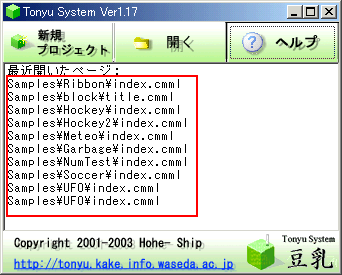
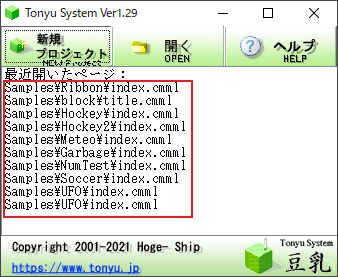
[wiki]リリース履歴修正、画像をWin10で撮り直し、グローバル変数一覧追加

diff --git a/md/dl-history.md b/md/dl-history.md
@@ -8,29 +8,24 @@
 &emsp;2021/05/01
 
 - フレームレート制御の実装を変更
-  - フレームレート制御を、無限ループ＋Sleepから、マルチメディアタイマーに変更した
-  - timeBeginPeriod(1)（WindowsAPI）でタイマー精度を向上
+  - ビジーループ＋Sleepから、マルチメディアタイマーに変更
 - CPU使用率を軽減
-- フレームレート(FPS)がより正確になった
 - ゲーム画面のカクツキ（スタッタリング）軽減（DWM有効時）
-  - 擬似的なVSyncを実装
-    - ディスプレイの走査線を取得し、処理タイミングを微調整することでスタッタリングを軽減する
 - カクツキ対策用のメソッド追加
   - [$System.setVSync](./rf-system-setvsync.md)
   - [$System.setAdjustScanLine](rf-system-setadjustscanline.md)
-- $System.setFrameRateでFPSを小数単位でも指定できるようになった
+- $System.setFrameRateでFPSを小数単位でも指定できるようにしました
   - $System.setFrameRateのFPS制限を廃止
 - グローバル変数追加
   - $_fps, $_rps追加（FPSとRPSが実数で取得できる）
-  - ディスプレイの縦横ピクセル数、$displayWidth, $displayHeight
-  - Windowsのバージョンを取得できるよう変数を追加した
-    - [$osPlatformId、$osMajorVer、$osMinorVer](./rf-getosversion.md)
-    - WindowsAPIのGetVersionExと同じ値
-- ランタイムではF3キーで一時停止禁止
+  - ディスプレイの縦横ピクセル数、$displayWidth, $displayHeightを追加
+  - Windowsのバージョン値、[$osPlatformId、$osMajorVer、$osMinorVer](./rf-getosversion.md)を追加
 - 効果音のDelayをOS毎に調整
   - XP以前は1350、Vista, 7は2400、8, 8.1は2500、10は3000
-- ウィンドウの見た目が変わった
-- ウィンドウ移動中などでもゲームが止まらなくなった
+- ウィンドウの見た目が変化しました
+- ランタイムではF3キーで一時停止禁止
+- ウィンドウ移動中などでもゲームが止まらなくなりました
+- フレームレート(FPS)がより正確になりました
 - パフォーマンスウィンドウの変更
   - FPS表示変更、RPS（Run Per Second）（実行速度）の表示追加、SleepTimeの表示
 - 非アクティブ時ページロードするとキーが効いてしまうのを防止
@@ -47,21 +42,17 @@
 &emsp;2021/04/04
 
 - switch文の実装
-  - switch、case、defaultは変数名等には使えなくなる
+  - switch、case、defaultは変数名等には使えなくなります
 - JoyStickの不具合を修正
   - JoyStickを刺して抜いた後、Tonyu1を再起動するとJoyStick取得が重くなる不具合を修正
     - [BBS No.12342](http://www.tonyu.jp/joyful/joyful.cgi?mode=res&no=12342) に該当
   - JoyStick１つ接続の時、２つ目のJoyStickのボタンも押下しているように取得される不具合を修正
-  - １フレーム内にJoyStick取得を複数回行うと、その分getButton()が増えてしまうのを修正
-    - getkey()と同じ挙動にした（getButton()等の取得値は１フレームごとに+1）
+  - getkey()と同じ挙動にしました（getButton()等の取得値は１フレームごとに+1）
 - ウィンドウが非アクティブ時の挙動修正
-  - FPSが下がりにくいように修正（スリープ時間を100ms→1msに変更）
-    - または、$Optionsのsleep_time値やパフォーマンスウィンドウのCPU負担の設定時間分スリープする
-  - タスクバーから最小化時、非アクティブと検知されない不具合を修正（キー入力・CPU使用率）
 - 効果音のDelayを3000に変更（Vista以降）
 - ファイルを開く・保存するダイアログを新しいタイプに変更（Vista以降）
 - エディタ編集時、ゲーム側でキーが反応しないように修正
-- エディタの30000バイト制限を廃止（Win9x系は制限を残した）
+- エディタの30000バイト制限を廃止（Win9x系は制限を残しました）
 - 稀にMidi再生・停止が失敗する不具合を軽減
 - ウィンドウやUIの大きさ・位置の修正
 - 文言の修正、URL・年の更新

diff --git a/md/reference/reference.md b/md/reference/reference.md
@@ -35,7 +35,11 @@ $viewY
 $windowX  
 $windowY  
 $fullScreen  
-[$osPlatformId, $osMajorVer, $osMinorVer](./rf-getosversion.md)
+$displayWidth  
+$displayHeight  
+[$osPlatformId, $osMajorVer, $osMinorVer](./rf-getosversion.md)  
+$_fps  
+$_rps  
 
 ### オブジェクト・クラス一覧  
   
